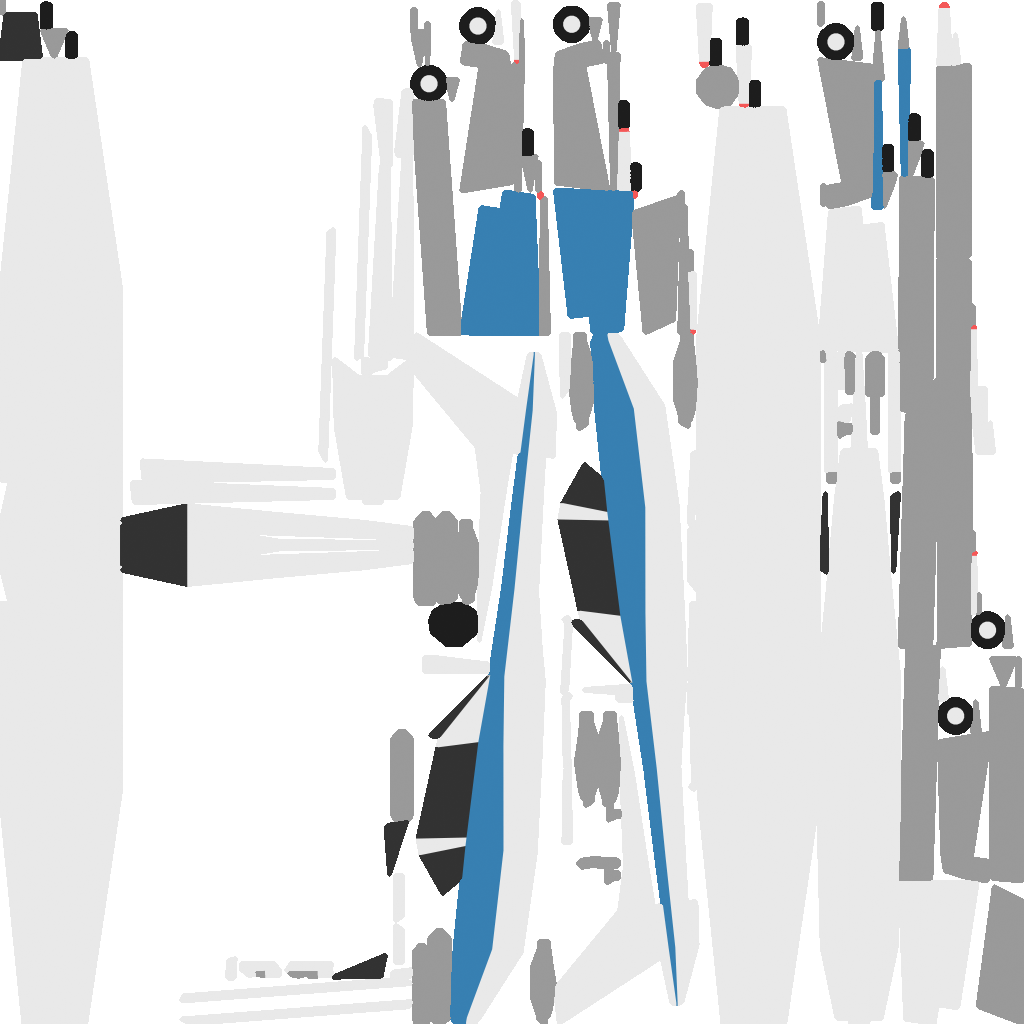
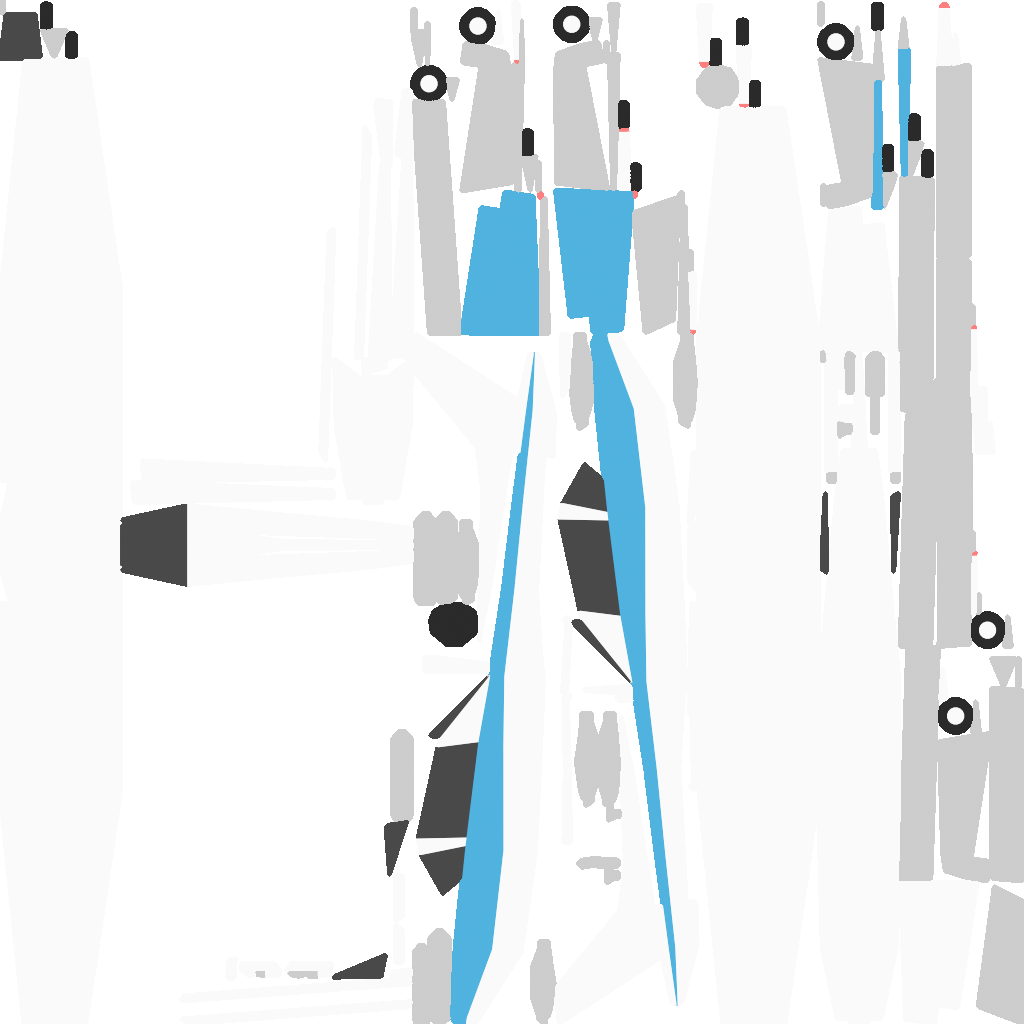
Removed flatShading from material, increased texture brightness

diff --git a/main.js b/main.js
@@ -150,8 +150,7 @@ fbxLoader.load(
                     roughness: 0,
 					map: texture,
 					depthTest: true,
-        			depthWrite: true,
-					flatShading: true
+        			depthWrite: true
                 } );
 				//child.material.map = texture;
 				child.material = planeMaterial;
